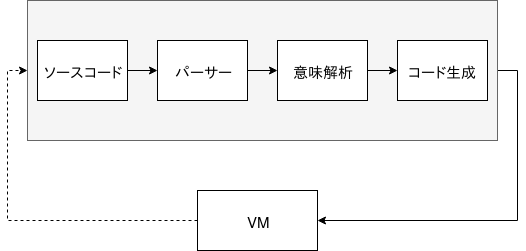
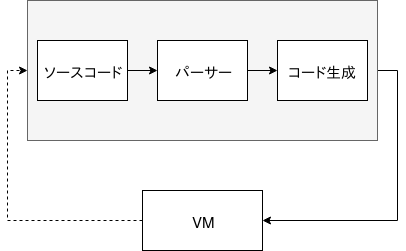
update article

diff --git a/posts/自作javascriptエンジンの進捗/index.html b/posts/自作javascriptエンジンの進捗/index.html
@@ -64,15 +64,95 @@
 
 <h2 id="tl-dr">TL;DR</h2>
 
-<ul>
-<li>だいたいJSっぽいコードを書いて実行できる(===規格に完全には沿えていない)</li>
+<ol>
+<li>だいたいJSっぽいコードを書いて実行できる(===規格にまだ沿えていない)</li>
 <li>REPLがちょっと使える</li>
-<li>Tracing-JITに部分的には対応している(===うまく行くとめちゃくちゃ速い. NodeJSより速い.)</li>
+<li>Tracing-JITに部分的に対応している(===うまく行くと速い)</li>
 <li>最近，Rustで書いたDLLを<code>require</code>から使えるようになった(===もはやなんでもできる!)</li>
 <li>また最近，非同期処理の実装を始めた</li>
-</ul>
+</ol>
 
 <h2 id="ちょっと詳しく">ちょっと詳しく</h2>
+
+<h3 id="1-だいたいjs">1. だいたいJS</h3>
+
+<p>だいたいJSというのは，規格に沿えていなかったり 意外と基本的な機能が抜けている，という意味です．例えば，この記事を書いている時点では<code>Object</code>オブジェクトがなかったり，組み込みオブジェクトの機能が足りていなかったりします．</p>
+
+<p>ですが大体はJSなので，そこそこのコードは動きます．例えば，ミラーラビン素数判定法で素数(&lt;2^32)を判定したい! というニッチな需要にも対応できます．</p>
+<div class="highlight"><pre class="chroma"><code class="language-js" data-lang="js"><span class="kd">function</span> <span class="nx">prime</span><span class="p">(</span><span class="nx">n</span><span class="p">)</span> <span class="p">{</span>
+  <span class="k">if</span> <span class="p">(</span><span class="nx">n</span> <span class="o">==</span> <span class="mi">2</span> <span class="o">||</span> <span class="nx">n</span> <span class="o">==</span> <span class="mi">3</span><span class="p">)</span> <span class="k">return</span> <span class="kc">true</span><span class="p">;</span>
+  <span class="k">if</span> <span class="p">((</span><span class="nx">n</span> <span class="o">&amp;</span> <span class="mi">1</span><span class="p">)</span> <span class="o">==</span> <span class="mi">0</span><span class="p">)</span>     <span class="k">return</span> <span class="kc">false</span><span class="p">;</span>
+
+  <span class="kd">var</span> <span class="nx">d</span> <span class="o">=</span> <span class="nx">n</span> <span class="o">-</span> <span class="mi">1</span><span class="p">;</span>
+  <span class="k">while</span> <span class="p">((</span><span class="nx">d</span> <span class="o">&amp;</span> <span class="mi">1</span><span class="p">)</span> <span class="o">==</span> <span class="mi">0</span><span class="p">)</span> <span class="nx">d</span> <span class="o">=</span> <span class="nb">Math</span><span class="p">.</span><span class="nx">floor</span><span class="p">(</span><span class="nx">d</span> <span class="o">&gt;&gt;</span> <span class="mi">1</span><span class="p">);</span>
+  
+  <span class="k">for</span> <span class="p">(</span><span class="kd">var</span> <span class="nx">k</span> <span class="o">=</span> <span class="mi">0</span><span class="p">;</span> <span class="nx">k</span> <span class="o">&lt;</span> <span class="mi">20</span><span class="p">;</span> <span class="nx">k</span><span class="o">++</span><span class="p">)</span> <span class="p">{</span>
+    <span class="kd">var</span> <span class="nx">t</span> <span class="o">=</span> <span class="nx">d</span><span class="p">;</span>
+    <span class="kd">var</span> <span class="nx">x</span> <span class="o">=</span> <span class="nx">modpow</span><span class="p">(</span><span class="mi">1</span> <span class="o">+</span> <span class="nb">Math</span><span class="p">.</span><span class="nx">floor</span><span class="p">(</span><span class="nb">Math</span><span class="p">.</span><span class="nx">random</span><span class="p">()</span> <span class="o">*</span> <span class="p">(</span><span class="nx">n</span> <span class="o">-</span> <span class="mi">2</span><span class="p">)),</span> <span class="nx">t</span><span class="p">,</span> <span class="nx">n</span><span class="p">);</span>
+  
+    <span class="k">while</span> <span class="p">(</span><span class="nx">t</span> <span class="o">!=</span> <span class="nx">n</span> <span class="o">-</span> <span class="mi">1</span> <span class="o">&amp;&amp;</span> <span class="nx">x</span> <span class="o">!=</span> <span class="mi">1</span> <span class="o">&amp;&amp;</span> <span class="nx">x</span> <span class="o">!=</span> <span class="nx">n</span> <span class="o">-</span> <span class="mi">1</span><span class="p">)</span> <span class="p">{</span>
+      <span class="nx">x</span> <span class="o">=</span> <span class="nx">modpow</span><span class="p">(</span><span class="nx">x</span><span class="p">,</span> <span class="mi">2</span><span class="p">,</span> <span class="nx">n</span><span class="p">);</span>
+      <span class="nx">t</span> <span class="o">=</span> <span class="nx">t</span> <span class="o">&lt;&lt;</span> <span class="mi">1</span><span class="p">;</span>
+    <span class="p">}</span>
+  
+    <span class="k">if</span> <span class="p">(</span><span class="nx">x</span> <span class="o">!=</span> <span class="nx">n</span> <span class="o">-</span> <span class="mi">1</span> <span class="o">&amp;&amp;</span> <span class="p">(</span><span class="nx">t</span> <span class="o">&amp;</span> <span class="mi">1</span><span class="p">)</span> <span class="o">==</span> <span class="mi">0</span><span class="p">)</span> <span class="k">return</span> <span class="kc">false</span><span class="p">;</span>
+  <span class="p">}</span>
+
+  <span class="k">return</span> <span class="kc">true</span><span class="p">;</span>
+<span class="p">}</span>
+
+<span class="kd">function</span> <span class="nx">modpow</span><span class="p">(</span><span class="nx">base</span><span class="p">,</span> <span class="nx">power</span><span class="p">,</span> <span class="nx">mod</span><span class="p">)</span> <span class="p">{</span>
+  <span class="kd">var</span> <span class="nx">result</span> <span class="o">=</span> <span class="mi">1</span><span class="p">;</span>
+  <span class="k">while</span> <span class="p">(</span><span class="nx">power</span> <span class="o">&gt;</span> <span class="mi">0</span><span class="p">)</span> <span class="p">{</span>
+    <span class="k">if</span> <span class="p">((</span><span class="nx">power</span> <span class="o">&amp;</span> <span class="mi">1</span><span class="p">)</span> <span class="o">==</span> <span class="mi">1</span><span class="p">)</span> <span class="nx">result</span> <span class="o">=</span> <span class="p">(</span><span class="nx">result</span> <span class="o">*</span> <span class="nx">base</span><span class="p">)</span> <span class="o">%</span> <span class="nx">mod</span><span class="p">;</span>
+    <span class="nx">base</span> <span class="o">=</span> <span class="p">(</span><span class="nx">base</span> <span class="o">*</span> <span class="nx">base</span><span class="p">)</span> <span class="o">%</span> <span class="nx">mod</span><span class="p">;</span>
+    <span class="nx">power</span> <span class="o">=</span> <span class="nb">Math</span><span class="p">.</span><span class="nx">floor</span><span class="p">(</span><span class="nx">power</span> <span class="o">&gt;&gt;</span> <span class="mi">1</span><span class="p">);</span>
+  <span class="p">}</span>
+  <span class="k">return</span> <span class="nx">result</span><span class="p">;</span>
+<span class="p">}</span>
+
+<span class="k">for</span> <span class="p">(</span><span class="kd">var</span> <span class="nx">i</span> <span class="o">=</span> <span class="mi">2</span><span class="p">;</span> <span class="nx">i</span> <span class="o">&lt;</span> <span class="mi">100000</span><span class="p">;</span> <span class="nx">i</span><span class="o">++</span><span class="p">)</span>
+  <span class="k">if</span> <span class="p">(</span><span class="nx">prime</span><span class="p">(</span><span class="nx">i</span><span class="p">))</span> <span class="nx">console</span><span class="p">.</span><span class="nx">log</span><span class="p">(</span><span class="nx">i</span><span class="p">);</span>
+</code></pre></div>
+<p>上記のようなコードは普通に動作します．一応，NodeJSと戦ってみる． (上記のコードから<code>console.log(i)</code>だけ消して<code>;</code>にしたコードを実行しました)</p>
+<div class="highlight"><pre class="chroma"><code class="language-sh" data-lang="sh">$ <span class="nb">time</span> node miller.js
+real <span class="m">0</span>.19
+user <span class="m">0</span>.18
+sys <span class="m">0</span>.01
+$ <span class="nb">time</span> ./target/release/rapidus miller.js
+real <span class="m">0</span>.19
+user <span class="m">0</span>.19
+sys <span class="m">0</span>.00</code></pre></div>
+<p>数値だけ使ってるループとかはJITの対象になるので，そこそこ速く動きます．JITについてはまた後で.</p>
+
+<p>ああ，あと，動作確認済みのサンプルコードは<code>./examples/</code>に入っています．(どれも微妙なコードばっかりなので，適当に先にNodeJSとかで実行して出力を確認してみてください)</p>
+
+<h3 id="2-repl">2. REPL</h3>
+
+<p>そのままです. REPLがちょっと使えます．</p>
+<div class="highlight"><pre class="chroma"><code class="language-sh" data-lang="sh">$ ./target/release/rapidus
+&gt; var <span class="nv">x</span> <span class="o">=</span> <span class="m">123</span>
+&gt; x
+<span class="m">123</span>
+&gt; x + <span class="m">111</span>
+<span class="m">234</span>
+&gt; $ ^ <span class="m">1</span>
+runtime error: reference error: <span class="s1">&#39;$&#39;</span> is not defined
+&gt; ..
+&gt;&gt; <span class="k">function</span> f<span class="o">(</span>x<span class="o">)</span> <span class="o">{</span>
+&gt;&gt;  <span class="k">if</span> <span class="o">(</span><span class="nv">x</span> <span class="o">===</span> <span class="m">1</span><span class="o">)</span> <span class="k">return</span> <span class="m">1</span><span class="p">;</span>
+&gt;&gt;  <span class="k">return</span> f<span class="o">(</span>x - <span class="m">1</span><span class="o">)</span> * x<span class="p">;</span>
+&gt;&gt; <span class="o">}</span>
+&gt;&gt; ..
+&gt; f<span class="o">(</span><span class="m">5</span><span class="o">)</span>
+<span class="m">120</span>
+&gt; <span class="nv">Function</span> <span class="o">===</span> f.__proto__.constructor
+<span class="nb">true</span>
+&gt; Function.prototype <span class="o">===</span> f.__proto__
+<span class="nb">true</span>
+&gt; <span class="o">[]</span> <span class="o">===</span> <span class="o">[]</span>
+false</code></pre></div>
+<p><code>..</code>で複数行入力を開始できるようになっていますが，不便なので直したいですね．</p>
 
 <h1 id="2-内部構造">2. 内部構造</h1>
 
@@ -80,7 +160,7 @@
 
 <p><img src="./internal.png" alt="internal" /></p>
 
-<p>ソースコードが，パーサー→意味解析→コード生成と段階を経てVMで実行できる形式に変換されます．</p>
+<p>ソースコード→パーサー→コード生成と段階を経てVMで実行できる形式に変換されます．</p>
 
 <p>VMから点線で矢印が出ていますが，これは<code>eval</code>や<code>require</code>なんかでVMからソースコード→&hellip;→コード生成をしないといけない場合があるからです．</p>
 

diff --git a/index.html b/index.html
@@ -65,15 +65,11 @@
 
   </div>
   <section class="summary">
-     この記事は何? セキュリティキャンプ 修了生進捗 #seccamp OB/OG Advent Calendar 2018 20日目。
+    この記事は何? セキュリティキャンプ 修了生進捗 #seccamp OB/OG Advent Calendar 2018 20日目。
 この記事では，セキュキャンが始まるちょっと前から作り始めた自作JSエンジン rapidus の進捗と，簡単に内部構造を説明していきたいと思います．
-目次  大まかな仕様 内部構造  パーサー コード生成 VM &hellip;.   1. 大まかな仕様 TL;DR  だいたいJSっぽいコードを書いて実行できる(===規格に完全には沿えていない) REPLがちょっと使える Tracing-JITに部分的には対応している(===うまく行くとめちゃくちゃ速い. NodeJSより速い.) 最近，Rustで書いたDLLをrequireから使えるようになった(===もはやなんでもできる!) また最近，非同期処理の実装を始めた  ちょっと詳しく 2. 内部構造 内部構造なんて大層なものではないですが、大体こんな感じ:
-ソースコードが，パーサー→意味解析→コード生成と段階を経てVMで実行できる形式に変換されます．
-VMから点線で矢印が出ていますが，これはevalやrequireなんかでVMからソースコード→&hellip;→コード生成をしないといけない場合があるからです．
-パーサー (src/parser.rs)  構文解析器（こうぶんかいせきき）とは、構文解析をおこなうプログラム。パーサ (parser)とも。プログラミング言語処理系の入力部分が代表的であるが、それに限らず設定ファイルの読み込みなど、構造を持った入力テキストの処理を行う。自然言語処理でも使われる。
-構文解析器 - Wikipedia
- rapidusのパーサーは基本的に手書きの再帰下降構文解析器で構成されています．若干コード生成に関係するような処理もしていますが，基本的にはパーサーとしての機能のみを果たしています．特に面白い実装がしてあるわけでもないです．
-意味解析  
+目次  大まかな仕様 内部構造  パーサー コード生成 VM &hellip;.   1. 大まかな仕様 TL;DR  だいたいJSっぽいコードを書いて実行できる(===規格にまだ沿えていない) REPLがちょっと使える Tracing-JITに部分的に対応している(===うまく行くと速い) 最近，Rustで書いたDLLをrequireから使えるようになった(===もはやなんでもできる!) また最近，非同期処理の実装を始めた  ちょっと詳しく 1. だいたいJS だいたいJSというのは，規格に沿えていなかったり 意外と基本的な機能が抜けている，という意味です．例えば，この記事を書いている時点ではObjectオブジェクトがなかったり，組み込みオブジェクトの機能が足りていなかったりします．
+ですが大体はJSなので，そこそこのコードは動きます．例えば，ミラーラビン素数判定法で素数(&lt;2^32)を判定したい! というニッチな需要にも対応できます．
+function prime(n) { if (n == 2 || n == 3) return true; if ((n &amp; 1) == 0) return false; var d = n - 1; while ((d &amp; 1) == 0) d = Math.  <a href="https://maekawatoshiki.github.io/blog/posts/%E8%87%AA%E4%BD%9Cjavascript%E3%82%A8%E3%83%B3%E3%82%B8%E3%83%B3%E3%81%AE%E9%80%B2%E6%8D%97/">Read More...</a>
   </section>
 </article>
 

diff --git a/posts/index.html b/posts/index.html
@@ -36,15 +36,11 @@
 
   </div>
   <section class="summary">
-     この記事は何? セキュリティキャンプ 修了生進捗 #seccamp OB/OG Advent Calendar 2018 20日目。
+    この記事は何? セキュリティキャンプ 修了生進捗 #seccamp OB/OG Advent Calendar 2018 20日目。
 この記事では，セキュキャンが始まるちょっと前から作り始めた自作JSエンジン rapidus の進捗と，簡単に内部構造を説明していきたいと思います．
-目次  大まかな仕様 内部構造  パーサー コード生成 VM &hellip;.   1. 大まかな仕様 TL;DR  だいたいJSっぽいコードを書いて実行できる(===規格に完全には沿えていない) REPLがちょっと使える Tracing-JITに部分的には対応している(===うまく行くとめちゃくちゃ速い. NodeJSより速い.) 最近，Rustで書いたDLLをrequireから使えるようになった(===もはやなんでもできる!) また最近，非同期処理の実装を始めた  ちょっと詳しく 2. 内部構造 内部構造なんて大層なものではないですが、大体こんな感じ:
-ソースコードが，パーサー→意味解析→コード生成と段階を経てVMで実行できる形式に変換されます．
-VMから点線で矢印が出ていますが，これはevalやrequireなんかでVMからソースコード→&hellip;→コード生成をしないといけない場合があるからです．
-パーサー (src/parser.rs)  構文解析器（こうぶんかいせきき）とは、構文解析をおこなうプログラム。パーサ (parser)とも。プログラミング言語処理系の入力部分が代表的であるが、それに限らず設定ファイルの読み込みなど、構造を持った入力テキストの処理を行う。自然言語処理でも使われる。
-構文解析器 - Wikipedia
- rapidusのパーサーは基本的に手書きの再帰下降構文解析器で構成されています．若干コード生成に関係するような処理もしていますが，基本的にはパーサーとしての機能のみを果たしています．特に面白い実装がしてあるわけでもないです．
-意味解析  
+目次  大まかな仕様 内部構造  パーサー コード生成 VM &hellip;.   1. 大まかな仕様 TL;DR  だいたいJSっぽいコードを書いて実行できる(===規格にまだ沿えていない) REPLがちょっと使える Tracing-JITに部分的に対応している(===うまく行くと速い) 最近，Rustで書いたDLLをrequireから使えるようになった(===もはやなんでもできる!) また最近，非同期処理の実装を始めた  ちょっと詳しく 1. だいたいJS だいたいJSというのは，規格に沿えていなかったり 意外と基本的な機能が抜けている，という意味です．例えば，この記事を書いている時点ではObjectオブジェクトがなかったり，組み込みオブジェクトの機能が足りていなかったりします．
+ですが大体はJSなので，そこそこのコードは動きます．例えば，ミラーラビン素数判定法で素数(&lt;2^32)を判定したい! というニッチな需要にも対応できます．
+function prime(n) { if (n == 2 || n == 3) return true; if ((n &amp; 1) == 0) return false; var d = n - 1; while ((d &amp; 1) == 0) d = Math.  <a href="https://maekawatoshiki.github.io/blog/posts/%E8%87%AA%E4%BD%9Cjavascript%E3%82%A8%E3%83%B3%E3%82%B8%E3%83%B3%E3%81%AE%E9%80%B2%E6%8D%97/">Read More...</a>
   </section>
 </article>
 
